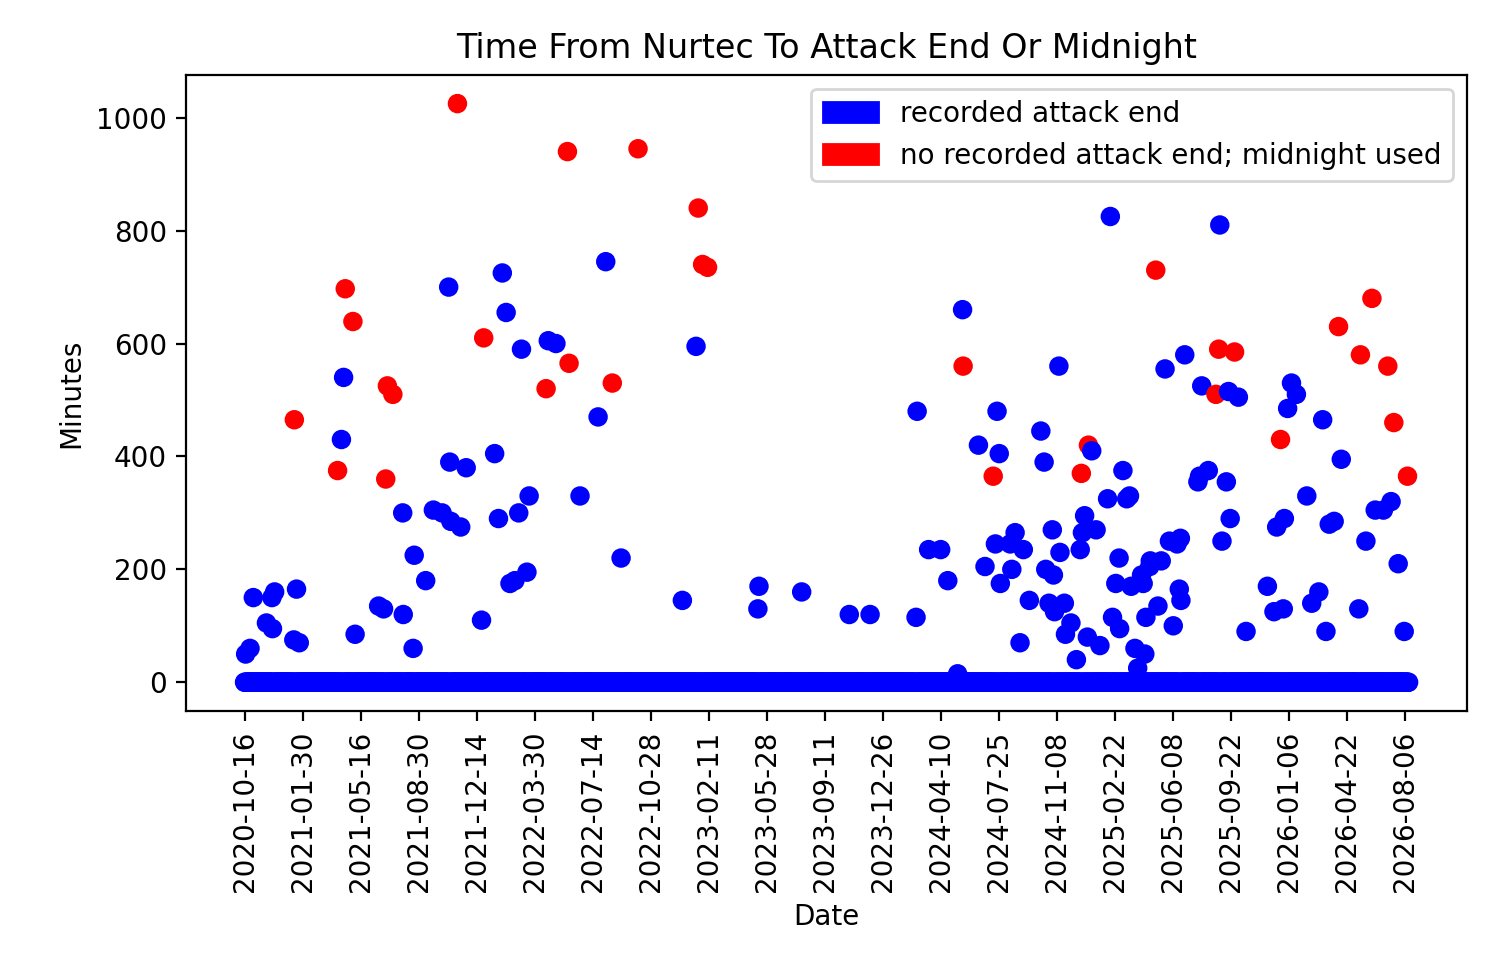
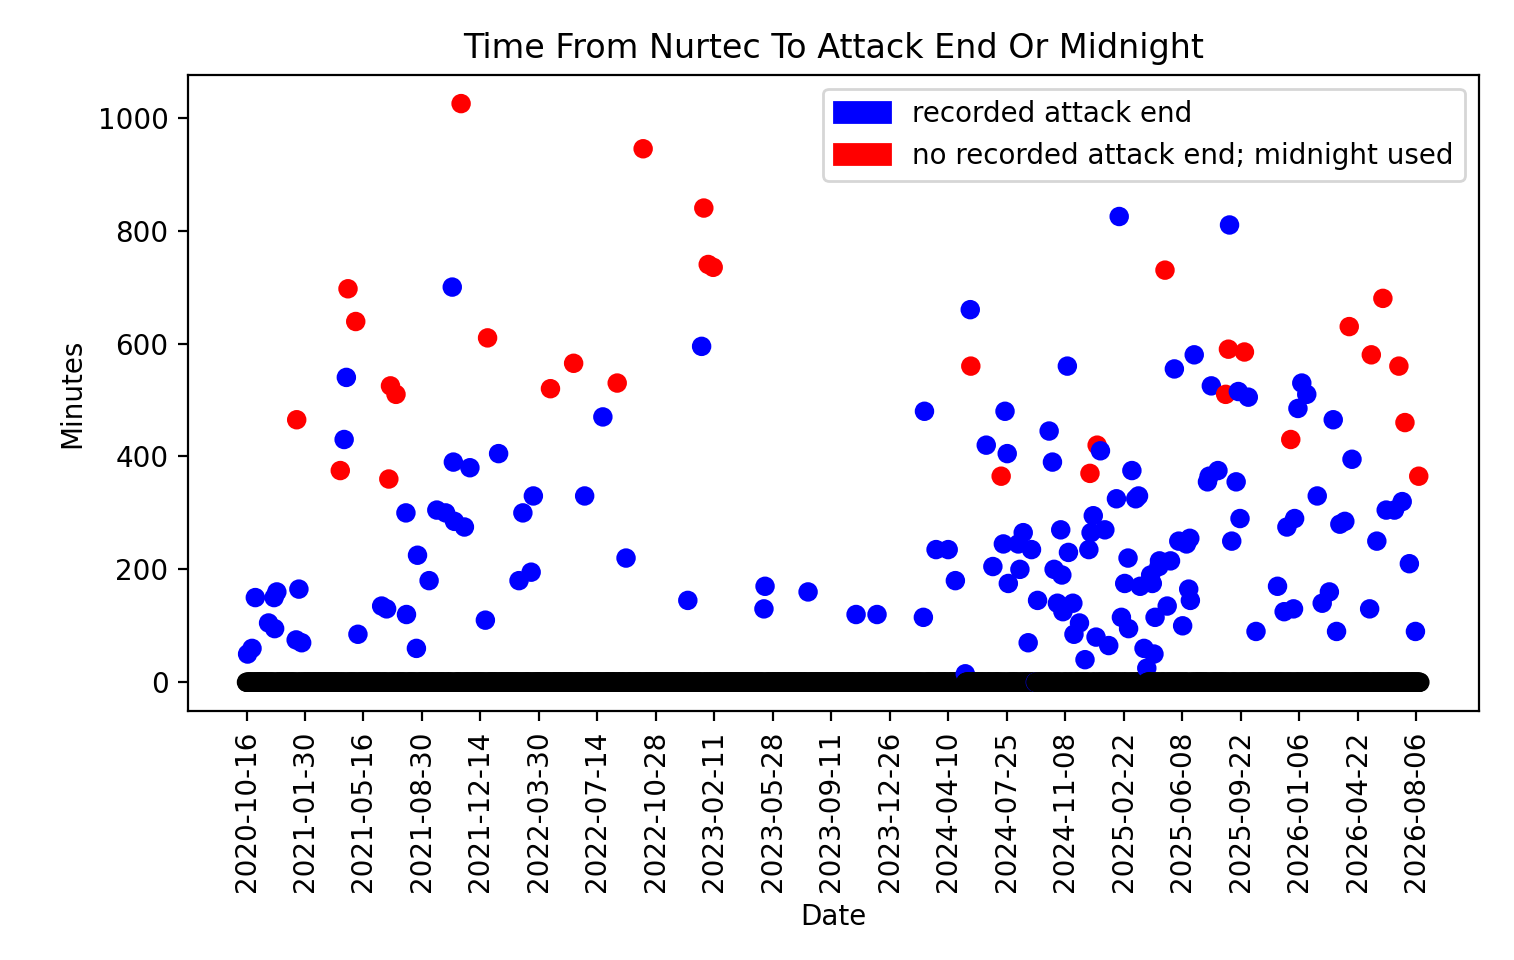
A few fixes on myHealthCondition page

diff --git a/health/myHealthCondition.html b/health/myHealthCondition.html
@@ -48,7 +48,7 @@
       </p>
       <p>
         <h2>Nurtec</h2>
-        <p>I started using Nurtec as a migraine abortive in October 2020, less than a year after it hit the market. Nurtec has absolutely no side effects for me.  Also, Nurtec can be taken without any liquids, unlike all my other medications. So there are times when Nurtec is the only abortive I can take.</p>
+        <p>I started using Nurtec as a migraine abortive in October 2020, less than a year after it hit the market. I use Nurtec as an abortive medication, which means I take it when I am having a migraine attack, intending for Nurtec to abort the migraine attack. As of 2026-08-15, I have taken Nurtec 213 times. Nurtec has absolutely no side effects for me. Also, Nurtec can be taken without any liquids, unlike all my other medications. So there are times when Nurtec is the only abortive I can take.</p>
         <p>At first, Nurtec seemed to be highly effective. But after a few months, Nurtec seemed to be ineffective.</p>
         <h4>2021-2023 Sunday Nurtec Trial</h4>
         <p>On 44 Sunday mornings from October 2021 to March 2023, I used a random method with 50% probability to determine whether or not to take Nurtec. This trial found Nurtec ineffective. The correlation between whether Nurtec was taken and the head pain statistics was nowhere near statistically significant. The correlation coefficients had magnitudes less than 0.1, and the p-values were greater than 0.5.</p>
@@ -80,7 +80,7 @@
           The physical effects from starting and continuing amitriptyline were weak.  The clearest effect was dry mouth.  But there were harmful mental effects that started while I was still taking amitriptyline regularly, which I describe below.  <i><u>Withdrawing</u></i> from amitriptyline was the most severe medication-induced experience I have ever had.  I withdrew from amitriptyline after taking it on 18 consecutive evenings.  On the first night of reduced amitriptyline levels, I had severe sweating, making my pillow very, very wet.  On the second night, I was completely unable to sleep; I did not sleep a single minute.  I had extreme nausea for the first 4 days of reduced amitriptyline levels.  After I took a few bites of a slice of pizza, I spent the next 15 minutes gasping for air.  I found applesauce to be the most effective food.  I was very weak and spent most of the time laying in my bed.  I also felt cold and needed to wear a jacket indoors.
         </p>
         <p>
-          Amitriptyline also had strong effects on my mental state.  I became delusional while I was on amitriptyline.  I came to believe natural coincidences were signs from super-human intelligence (such as a god or aliens).  On day 16 of amitriptyline, I discovered some natural coincidences that I thought proved super-human intelligence, and at that point I decided to withdraw from amitriptyline.  From what I wrote during withdrawal, it is clear that I was completely delusional, perceiving significance in trivial personal events including hearing a bird outside and getting a junk text message.  Over the months following the withdrawal, I investigated the natural coincidences using computer simulations, which you can find <a href="astro-tools">at this link</a> (they all come from astronomy).  It took months for all the delusional beliefs to be overturned in my mind, as I had believed there was more than enough significance to prove super-human intelligence.  Once I had rejected the significance of all the coincidences, it appeared that it was a delusion caused by amitriptyline.  But looking at my written records, I was interested in the possibility of finding signs from super-human intelligence in the weeks before I took amitriptyline, although I did not come to believe that there was proof of super-human intelligence until my 16th day on amitriptyline.  So I am not sure to what degree amitriptyline caused these delusions, but it definitely had strong mental effects.
+          Amitriptyline also had strong effects on my mental state.  I became delusional while I was on amitriptyline.  I came to believe natural coincidences were signs from super-human intelligence (such as a god or aliens).  On day 16 of amitriptyline, I discovered some natural coincidences that I thought proved super-human intelligence, and at that point I decided to withdraw from amitriptyline.  From what I wrote during withdrawal, it is clear that I was completely delusional, perceiving significance in trivial personal events including hearing a bird outside and getting a junk text message.  Over the months following the withdrawal, I investigated the natural coincidences using computer simulations, which you can find <a href="/astro-tools">at this link</a> (they all come from astronomy).  It took months for all the delusional beliefs to be overturned in my mind, as I had believed there was more than enough significance to prove super-human intelligence.  Once I had rejected the significance of all the coincidences, it appeared that it was a delusion caused by amitriptyline.  But looking at my written records, I was interested in the possibility of finding signs from super-human intelligence in the weeks before I took amitriptyline, although I did not come to believe that there was proof of super-human intelligence until my 16th day on amitriptyline.  So I am not sure to what degree amitriptyline caused these delusions, but it definitely had strong mental effects.
         </p>
       </p>
       <p>
